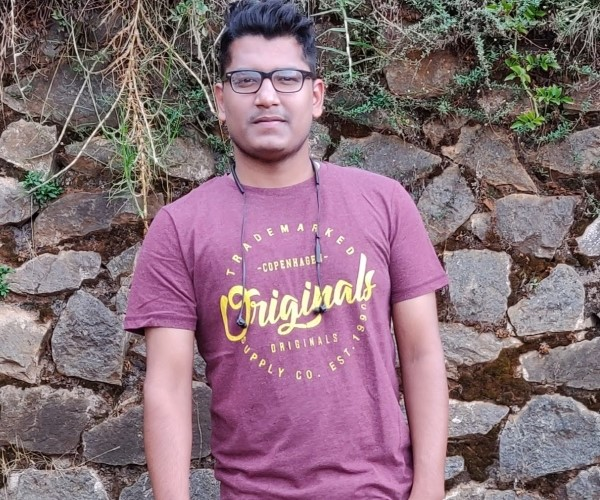
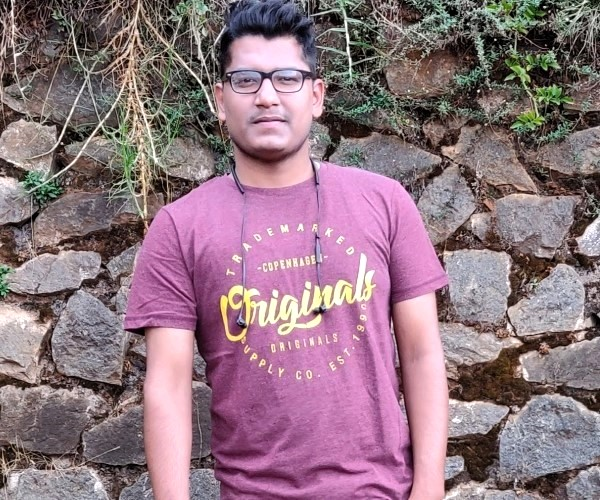
Changed few images with the pre-wedding shoot, Also replaced with our pre-wedding trailer video

diff --git a/src/components/PhotoGallery.js b/src/components/PhotoGallery.js
@@ -10,6 +10,8 @@ import gallery4 from "../assets/images/gallery-4.jpg";
 import gallery5 from "../assets/images/gallery-5.jpg";
 import gallery6 from "../assets/images/gallery-6.jpg";
 import gallery7 from "../assets/images/gallery-7.jpg";
+import gallery8 from "../assets/images/gallery-8.jpg";
+import gallery9 from "../assets/images/gallery-9.jpg";
 
 const PhotoGallery = () => {
   const carouselConfig = {
@@ -27,6 +29,8 @@ const PhotoGallery = () => {
     gallery5,
     gallery6,
     gallery7,
+    gallery8,
+    gallery9,
   ];
 
   return (

diff --git a/src/components/YoutubeModal.js b/src/components/YoutubeModal.js
@@ -59,7 +59,7 @@ const YoutubeModal = ({ isPlaying, pauseBackgroundMusic }) => {
               {/* 16:9 aspect ratio */}
               <div className="embed-responsive embed-responsive-16by9">
                 <iframe
-                  src={`https://www.youtube.com/embed/UbMgcdmYC70`}
+                  src={`https://www.youtube.com/embed/H1Kvsngq85o`}
                   title="YouTube video player"
                   allow="autoplay; picture-in-picture"
                   allowFullScreen
